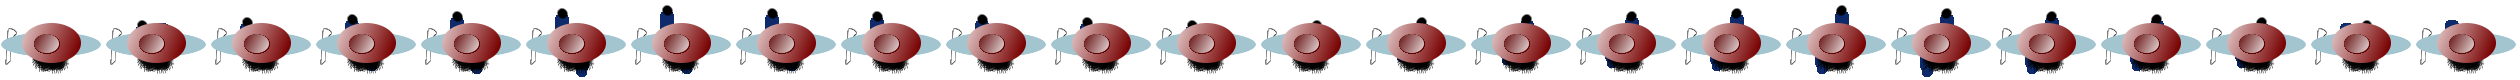
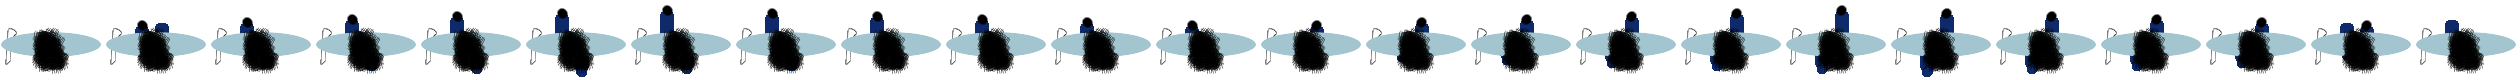
Fixed the z-index screwup with baker's hat and cake plate.

Changed region(s): [[0.0, 0.275, 0.9905, 0.8]]

diff --git a/src/baker.rb b/src/baker.rb
@@ -31,6 +31,7 @@ class Baker
 
   def initialize window
     @walking_anim = Util::Animator.new(window, 'media/walking_baker.png', 105, 80, false, 2, true)
+    @hat = Gosu::Image.new(window, 'media/baker_hat.png', false)
     @window = window
     @x, @y, @target_x, @target_y, @angle = 0, 0, 0, 0, 0, 0, 0
     @sane_walking_area = LimitingRectangle.new(384, 200, 835, 550)
@@ -60,7 +61,8 @@ class Baker
 
   def draw
     @walking_anim.slide.draw_rot(@x, @y, ZOrder::BAKER, @angle)
-    @plate && @plate.render
+    @hat.draw_rot(@x, @y, ZOrder::BAKER_HAT, @angle)
+    @plate && @plate.render(ZOrder::PLATE_WHEN_IN_BAKERS_HAND)
   end
 
   private

diff --git a/src/oven.rb b/src/oven.rb
@@ -18,8 +18,8 @@ class Oven
       @y = y
     end
     
-    def render
-      @cake_view.draw(@x, @y, ZOrder::CAKE) 
+    def render(z_index = ZOrder::CAKE)
+      @cake_view.draw(@x, @y, z_index) 
     end
   end
   
@@ -42,9 +42,9 @@ class Oven
       @cake.update_position(x, y)
     end
     
-    def render
-      @plate_view.draw(@x, @y, zindex)
-      @cake.render
+    def render(z_index = zindex)
+      @plate_view.draw(@x, @y, z_index)
+      @cake.render(z_index + 1)
     end
     
     def handle event

diff --git a/src/zorder.rb b/src/zorder.rb
@@ -1,5 +1,6 @@
 # User: janmejay.singh
 # Time: 19 Jun, 2008 12:07:35 AM
 module ZOrder
-   BACKGROUND, UNDER_TABLE_EQUIPMENTS, TABLE, OVEN_TRASH_CAN, OVEN_CAKE_HOLDER, PLATE, CAKE, OVEN, OVEN_CONTROLS, PROCESSING, CURSOR, BAKER, MESSAGES = *0..12
+   BACKGROUND, UNDER_TABLE_EQUIPMENTS, TABLE, OVEN_TRASH_CAN, OVEN_CAKE_HOLDER, PLATE, CAKE, OVEN, OVEN_CONTROLS, 
+   PROCESSING, CURSOR, BAKER, PLATE_WHEN_IN_BAKERS_HAND, CAKE_WHEN_IN_BAKERS_HAND, BAKER_HAT, MESSAGES = *0..15
 end
